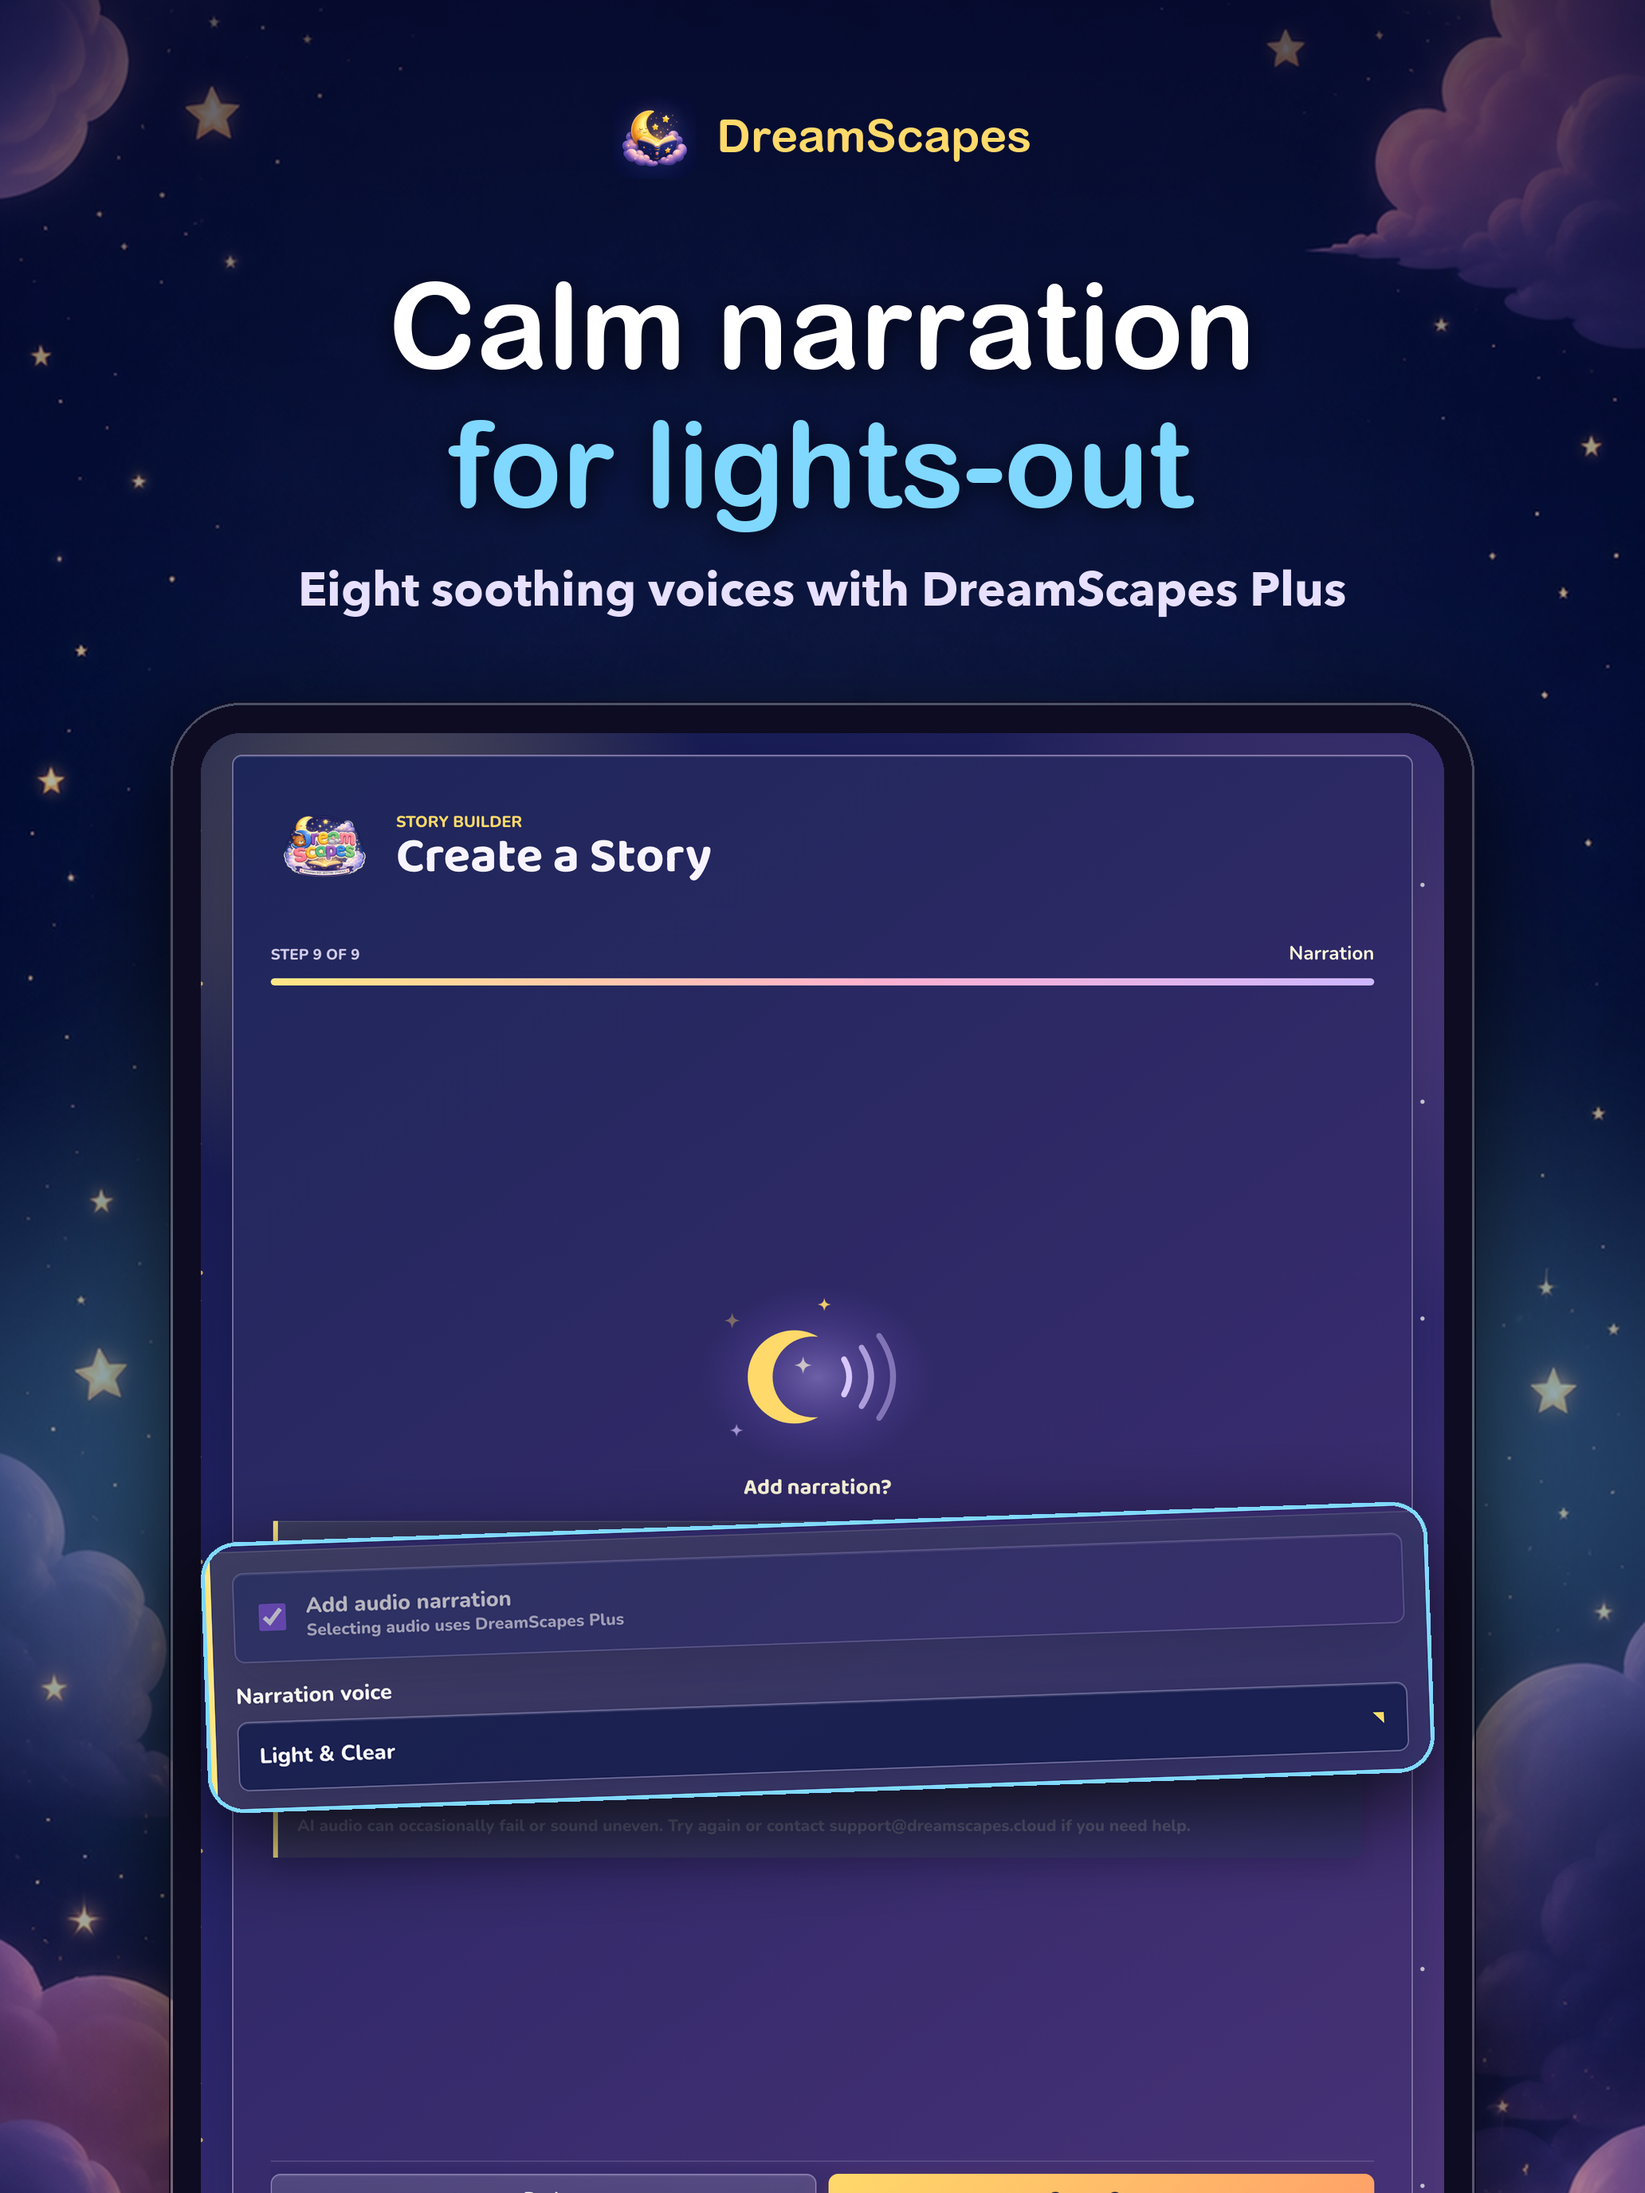
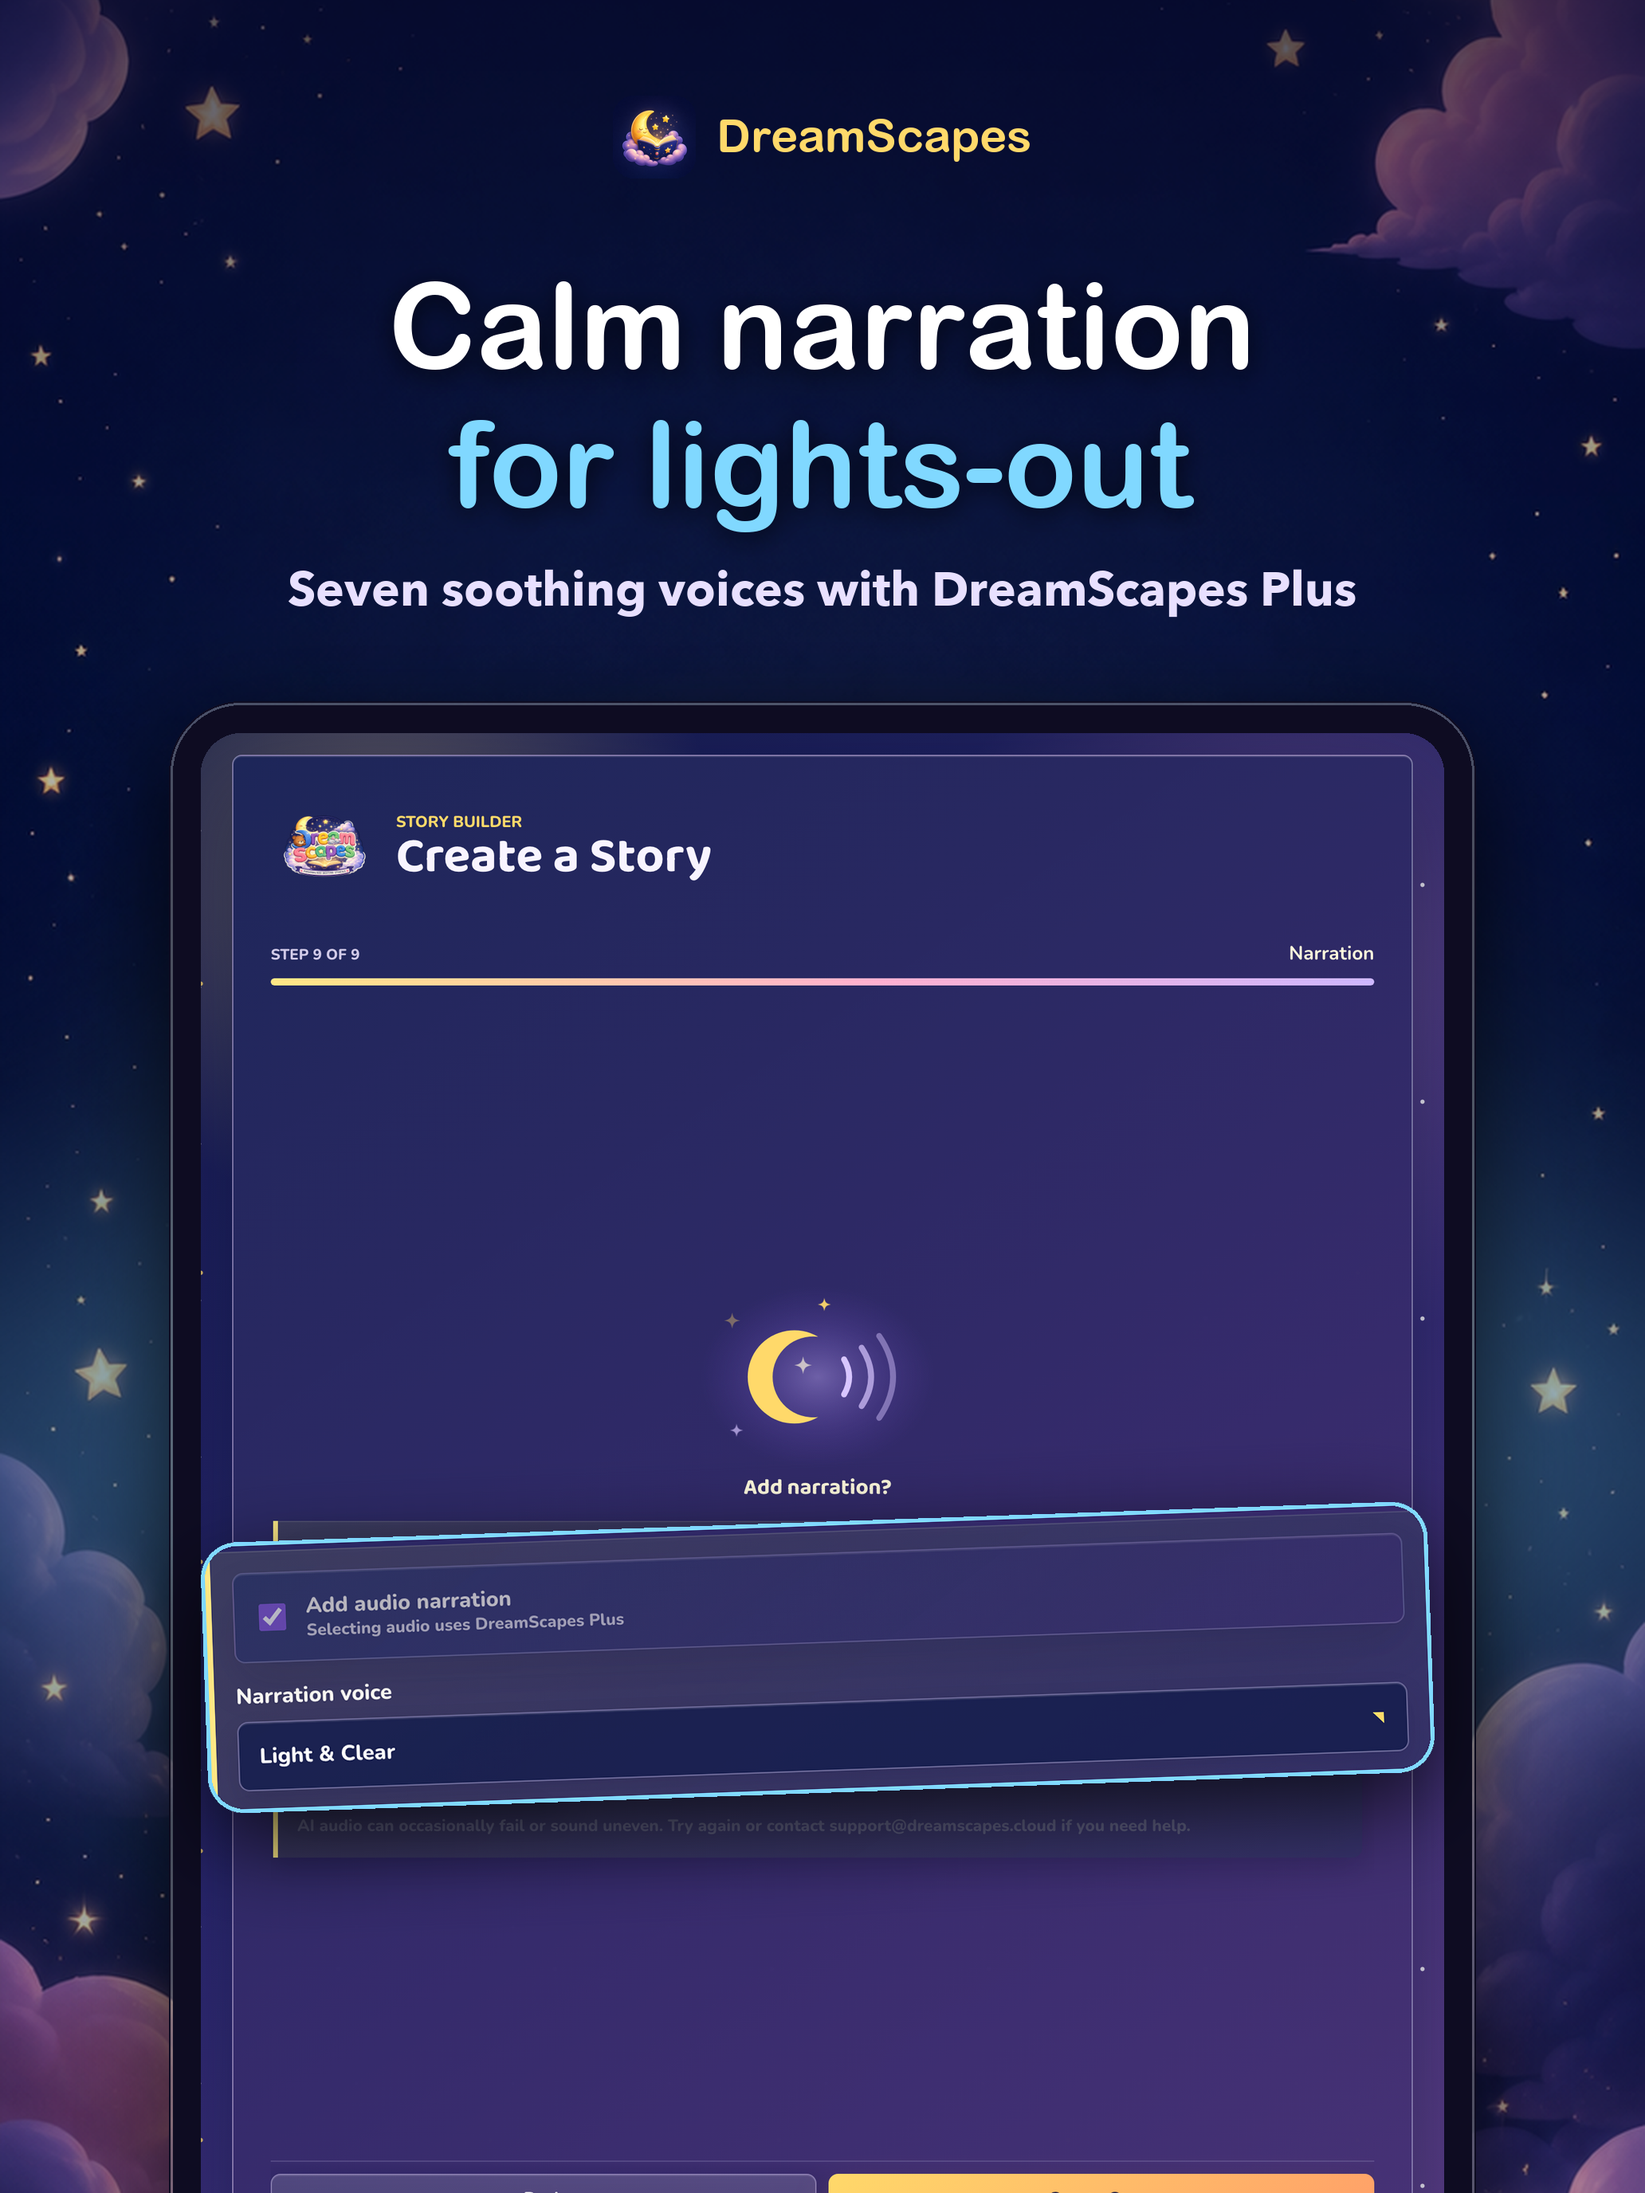
Say seven voices, because there are seven
The screenshots were rebuilt when the picker held eight, and sage was retired
out of it an hour later. Both sets say seven now.

Changed region(s): [[0.155, 0.25, 0.8372, 0.2812]]

diff --git a/scripts/build-ipad-13-screenshots.py b/scripts/build-ipad-13-screenshots.py
@@ -43,7 +43,7 @@ SCREENS = [
      (106, 498, 718, 1228), 1.35, -3, 0, None),
     ("05-calm-narration.png", "narration.png", "sky",
      [("Calm narration", False), ("for lights-out", True)],
-     "Eight soothing voices with DreamScapes Plus",
+     "Seven soothing voices with DreamScapes Plus",
      (120, 1300, 1928, 1690), 1.12, 2, 30, None),
     ("06-in-control.png", "controls.png", "mint",
      [("You are always", False), ("in control", True)],

diff --git a/scripts/build-ios-screenshots.py b/scripts/build-ios-screenshots.py
@@ -41,7 +41,7 @@ SCREENS = [
      (50, 515, 1030, 790), -2, 0, None),
     ("05-calm-narration.png", "06-narration.png", "sky",
      [("Calm narration", False), ("for lights-out", True)],
-     "Eight soothing voices with DreamScapes Plus",
+     "Seven soothing voices with DreamScapes Plus",
      (60, 850, 1012, 1160), 2, 25, None),
     ("06-in-control.png", "04-parent-controls.png", "mint",
      [("You are always", False), ("in control", True)],
